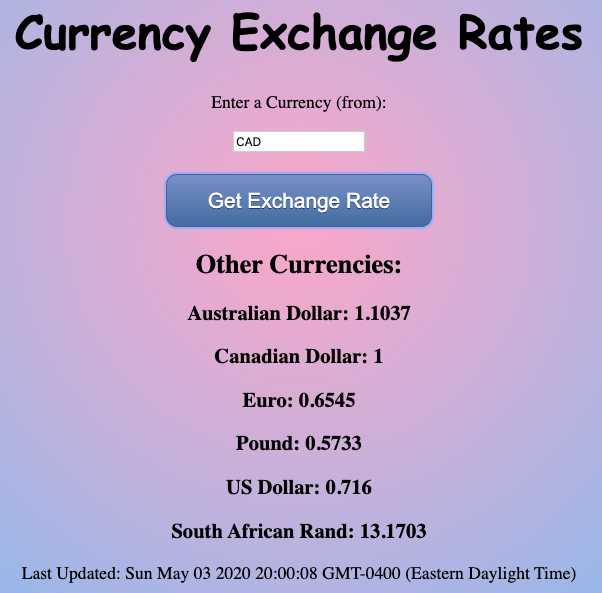
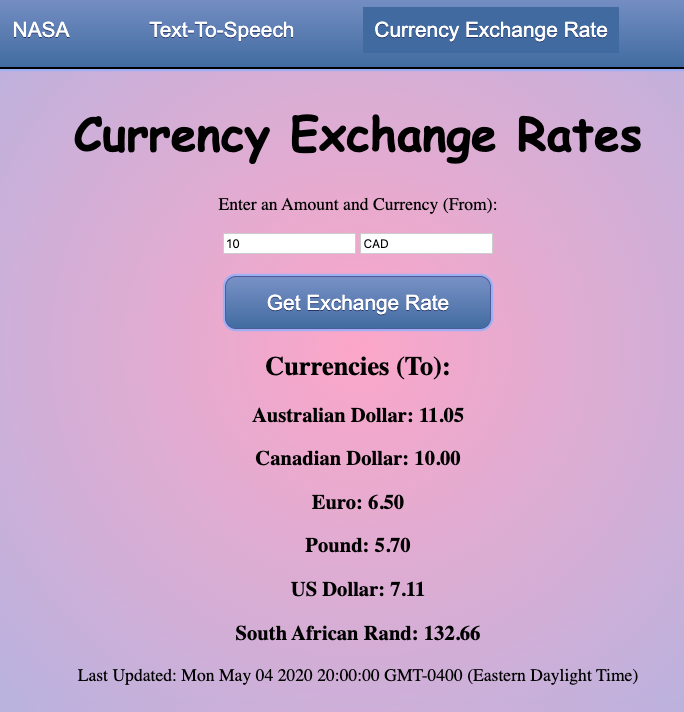
Movie/Tv feature added
currency update

diff --git a/script.js b/script.js
@@ -154,6 +154,7 @@ function textToSpeechNASA (text) {
 
 function getRate(){
   var enteredCurrency = document.getElementById('firstCurrency').value;
+  var amount = document.getElementById('amount').value;
   var buildURL = 'https://prime.exchangerate-api.com/v5/3f9a1778918fa566541933c6/latest/' + enteredCurrency;
 
   //var otherCurrency = document.getElementById('secondCurrency').value;
@@ -165,12 +166,50 @@ function getRate(){
         console.log(data);
         //document.getElementById('yourExchangeRate').innerHTML = (otherCurrencyVal.value);
         //document.getElementById('yourExchangeRate').innerHTML = otherCurrecyVal
-        document.getElementById('AUD').innerHTML = ("Australian Dollar: " + data.conversion_rates.AUD);
-        document.getElementById('CAD').innerHTML = ("Canadian Dollar: " + data.conversion_rates.CAD);
-        document.getElementById('EUR').innerHTML = ("Euro: " + data.conversion_rates.EUR);
-        document.getElementById('GBP').innerHTML = ("Pound: " + data.conversion_rates.GBP);
-        document.getElementById('USD').innerHTML = ("US Dollar: " + data.conversion_rates.USD);
-        document.getElementById('ZAR').innerHTML = ("South African Rand: " + data.conversion_rates.ZAR);
+        document.getElementById('AUD').innerHTML = ("Australian Dollar: " + (data.conversion_rates.AUD * amount).toFixed(2));
+        document.getElementById('CAD').innerHTML = ("Canadian Dollar: " + (data.conversion_rates.CAD * amount).toFixed(2));
+        document.getElementById('EUR').innerHTML = ("Euro: " + (data.conversion_rates.EUR * amount).toFixed(2));
+        document.getElementById('GBP').innerHTML = ("Pound: " + (data.conversion_rates.GBP * amount).toFixed(2));
+        document.getElementById('USD').innerHTML = ("US Dollar: " + (data.conversion_rates.USD * amount).toFixed(2));
+        document.getElementById('ZAR').innerHTML = ("South African Rand: " + (data.conversion_rates.ZAR * amount).toFixed(2));
         document.getElementById('lastUpdated').innerHTML = ("Last Updated: " + new Date(data.time_last_update*1000));
+  })
+};
+
+function getMovie() {
+  var enteredLoc = document.getElementById('movieName').value;
+  var buildURL = 'http://www.omdbapi.com/?i=tt3896198&apikey=f64da9d4&s=' + enteredLoc;
+
+  fetch (buildURL)
+    .then (resp1 => resp1.json())
+    .then ((data) => {
+        console.log(data);
+        document.getElementById('movieTitle').innerHTML = data.Search[0].Title;
+        document.getElementById('movieImage').src = data.Search[0].Poster;
+        document.getElementById('movieYear').innerHTML = data.Search[0].Year;
+        document.getElementById('movieType').innerHTML = data.Search[0].Type;
+  })
+};
+
+function getRandMovie() {
+  var randNum0 = Math.floor(Math.random()*10);
+  var randNum1 = Math.floor(Math.random()*10);
+  var randNum2 = Math.floor(Math.random()*10);
+  var randNum3 = Math.floor(Math.random()*10);
+  var randNum4 = Math.floor(Math.random()*10);
+  var randNum5 = Math.floor(Math.random()*10);
+
+  var buildURL = 'http://www.omdbapi.com/?i=tt00'+ randNum0.toString() + randNum1.toString() + randNum2.toString() + randNum3.toString() + randNum4.toString() + '&apikey=f64da9d4';
+
+  //document.getElementById('movieYear').innerHTML = randNum;
+
+  fetch (buildURL)
+    .then (resp1 => resp1.json())
+    .then ((data) => {
+        console.log(data);
+        document.getElementById('movieTitle').innerHTML = data.Title;
+        document.getElementById('movieImage').src = data.Poster;
+        document.getElementById('movieYear').innerHTML = data.Year;
+        document.getElementById('movieType').innerHTML = data.Type;
   })
 };

diff --git a/index.html b/index.html
@@ -23,6 +23,7 @@
         <li data-tab-target="#nasa" class="tab">NASA</li>
         <li data-tab-target="#tts" class="tab">Text-To-Speech</li>
         <li data-tab-target="#exchange" class="tab">Currency Exchange Rate</li>
+        <li data-tab-target="#movie" class="tab">TV/Movie</li>
         <li data-tab-target="#wiki" class="tab">Random Article</li>
       </ul>
 
@@ -107,7 +108,8 @@
 
     <div id="exchange" data-tab-content>
       <h1>Currency Exchange Rates</h1>
-      <p>Enter a Currency (from):</p>
+      <p>Enter an Amount and Currency (From):</p>
+      <input id="amount" value="1"></input>
       <input id="firstCurrency" value="CAD"></input>
       <!--<p>Enter a Currency (to):</p>-->
       <!--<input id="secondCurrency" value="USD"></input>-->
@@ -115,7 +117,7 @@
       <h2 id="yourExchangeRate"></h2>
       <a href="#" class="button" onclick="getRate()">Get Exchange Rate</a>
       <div class="exchangeRate-Container">
-        <h2>Other Currencies: </h2>
+        <h2>Currencies (To): </h2>
         <h3 id="AUD"></h3>
         <h3 id="CAD"></h3>
         <h3 id="EUR"></h3>
@@ -130,6 +132,21 @@
       <h1>Random Wikipedia Article</h1>
       <div class="randomArticle">
         <a href="https://en.wikipedia.org/wiki/Special:Random" class="button" target="_blank">Random Wikipedia Article</a>
+      </div>
+    </div>
+
+    <div id="movie" data-tab-content>
+      <h1>Movie/TV Show</h1>
+      <div class="movie-container">
+        <p>Enter a Movie/TV Show Name:</p>
+        <input id="movieName" value="Batman"></input>
+        <br><br>
+        <a href="#" class="button" onclick="getMovie()">Search</a>
+        <a href="#" class="button" onclick="getRandMovie()">Find Random</a>
+        <h3 id="movieTitle"></h3>
+        <img class="img" id="movieImage" src="">
+        <h3 id="movieYear"></h3>
+        <h3 id="movieType"></h3>
       </div>
     </div>
 
